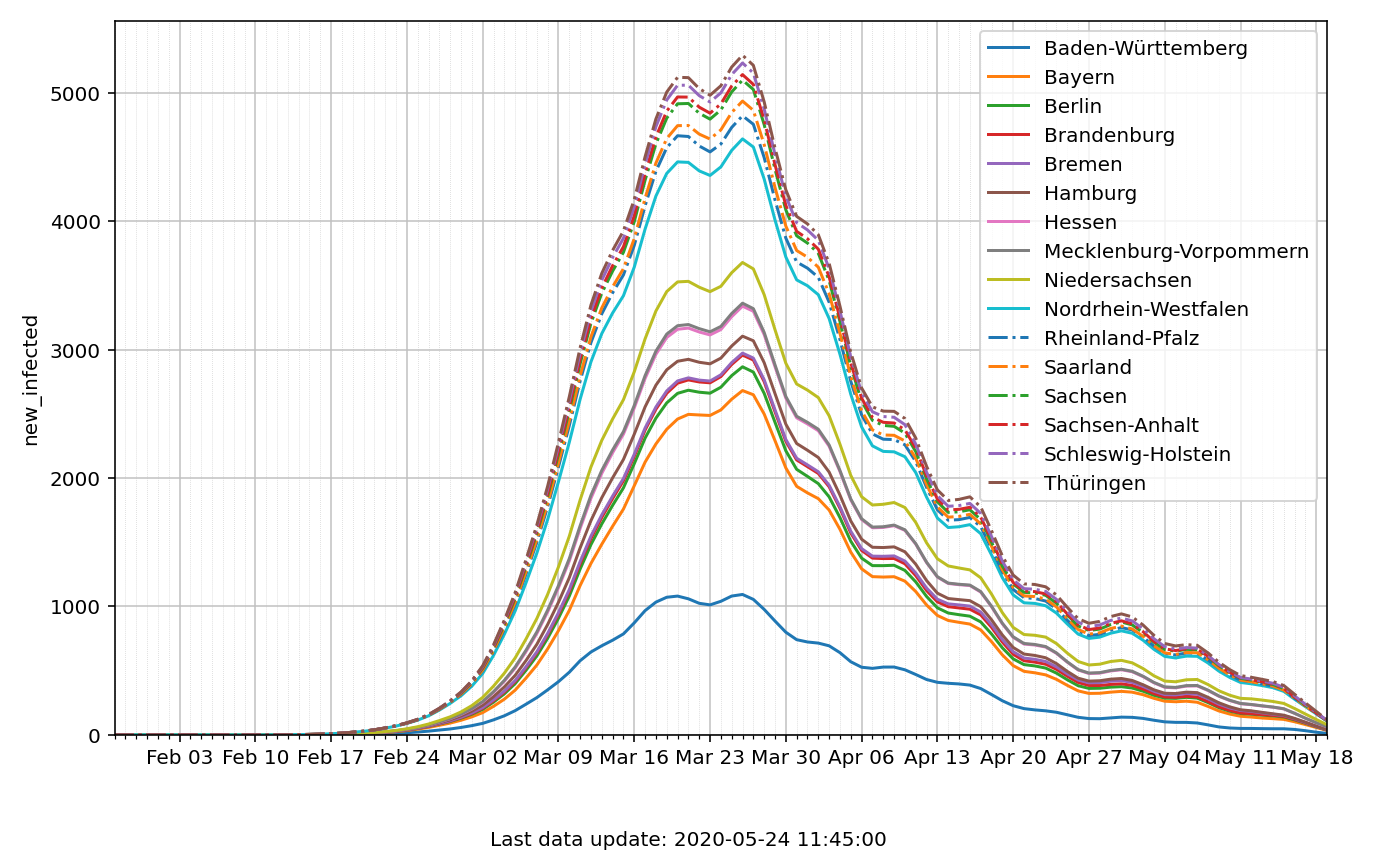
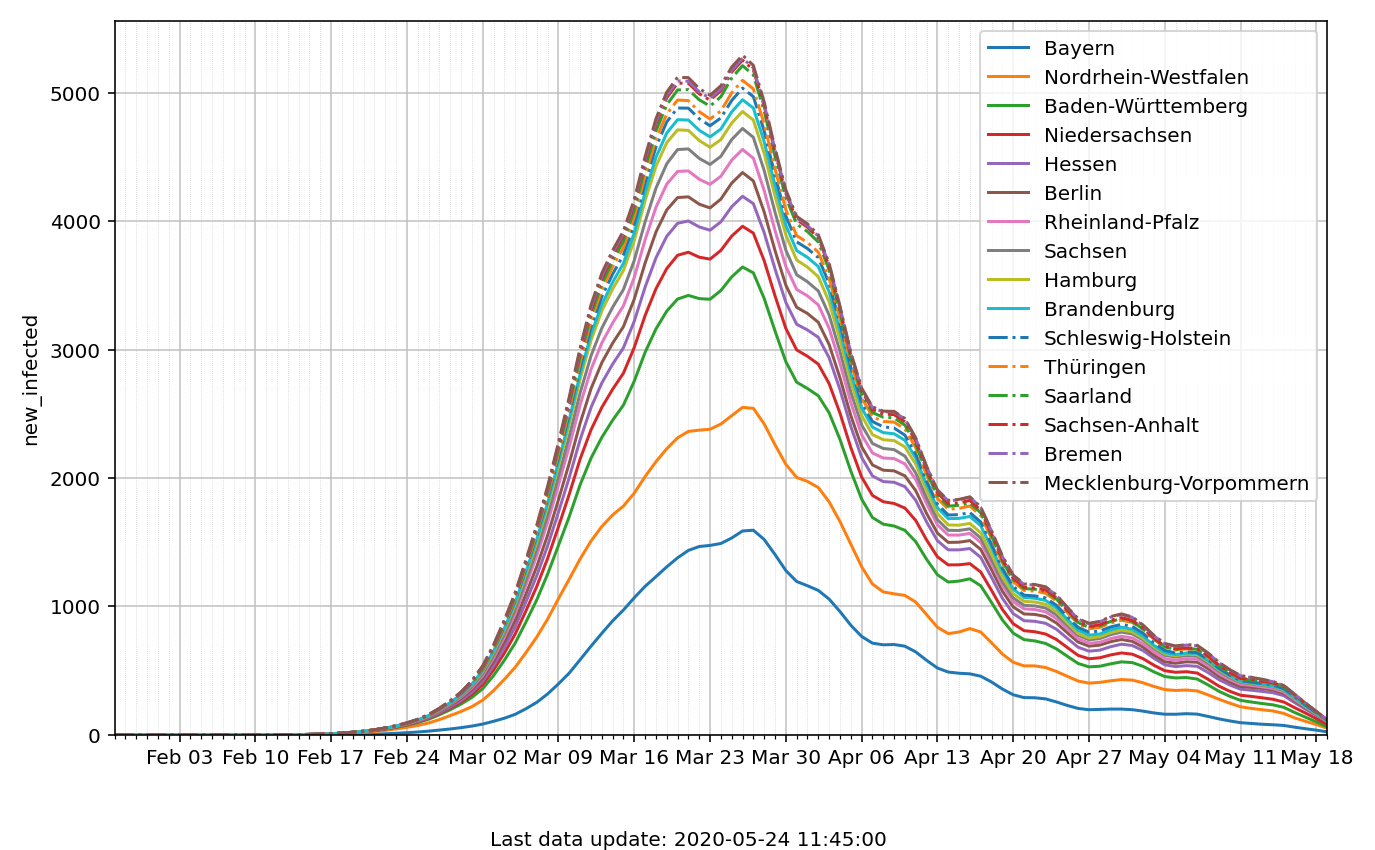
Sort stacked charts by totals

diff --git a/main.py b/main.py
@@ -235,7 +235,7 @@ class mopodata:
             extend_data(df)
             return df
 
-        def pivoted(entity, datacol, worst_only=None):
+        def pivoted(entity, datacol, worst_only=None, order_total=False):
             roi = region_data(below=entity)
             def ds(c, d):
                 return UnifiedDataModel.date_shifted_by(roi, c, days(d))
@@ -246,6 +246,10 @@ class mopodata:
                 last_nonempty = piv[~piv.isnull().all(axis=1)].tail(1)
                 worst = last_nonempty.melt().nlargest(worst_only, columns="value")
                 piv = piv[worst["entity"].sort_values()]
+            if order_total:
+                ordersum: pd.Series = piv.sum(axis=0, skipna=True)
+                ordered_columns = ordersum.sort_values(ascending=order_total > 0).keys().to_list()
+                piv = piv[ordered_columns]
             piv.last_modified = roi["updated"].max()
             return piv
 
@@ -255,10 +259,11 @@ class mopodata:
             reg = reg[["date", "dow", "confirmed", "recovered", "deaths", "active", "perday", "infected", "doubling"]]
             print(reg, file=open(f"report.{short}.txt", "wt"))
 
-        def kreise_plot(entity_parent, short, *, field="confirmed", maxn: Optional[int] = 10, stack=False):
+        def kreise_plot(entity_parent, short, *, field="confirmed", maxn: Optional[int] = 10, stack=False,
+                        order_total: Union[bool, int] = False):
             import matplotlib as mpl
             fig, axs = pk.new_regular()
-            pv = pivoted(entity_parent, field, maxn)
+            pv = pivoted(entity_parent, field, maxn, order_total)
             axs.set_prop_cycle(mpl.rcsetup.cycler("linestyle", ["-", "-.", "--"]) * mpl.rcParams["axes.prop_cycle"])
             plot_dataframe(axs, pv, stacked=stack)
             axs.set_ylabel(field)
@@ -275,8 +280,8 @@ class mopodata:
         kreise_plot("Sachsen-Anhalt", "lsa")
         kreise_plot("Sachsen-Anhalt", "lsa", field="active")
         kreise_plot("Thüringen", "th")
-        kreise_plot("Deutschland", "de", field="new_confirmed", maxn=20, stack=True)
-        kreise_plot("Deutschland", "de", field="new_infected", maxn=20, stack=True)
+        kreise_plot("Deutschland", "de", field="new_confirmed", maxn=20, stack=True, order_total=-1)
+        kreise_plot("Deutschland", "de", field="new_infected", maxn=20, stack=True, order_total=-1)
 
 
 class jhudata:
